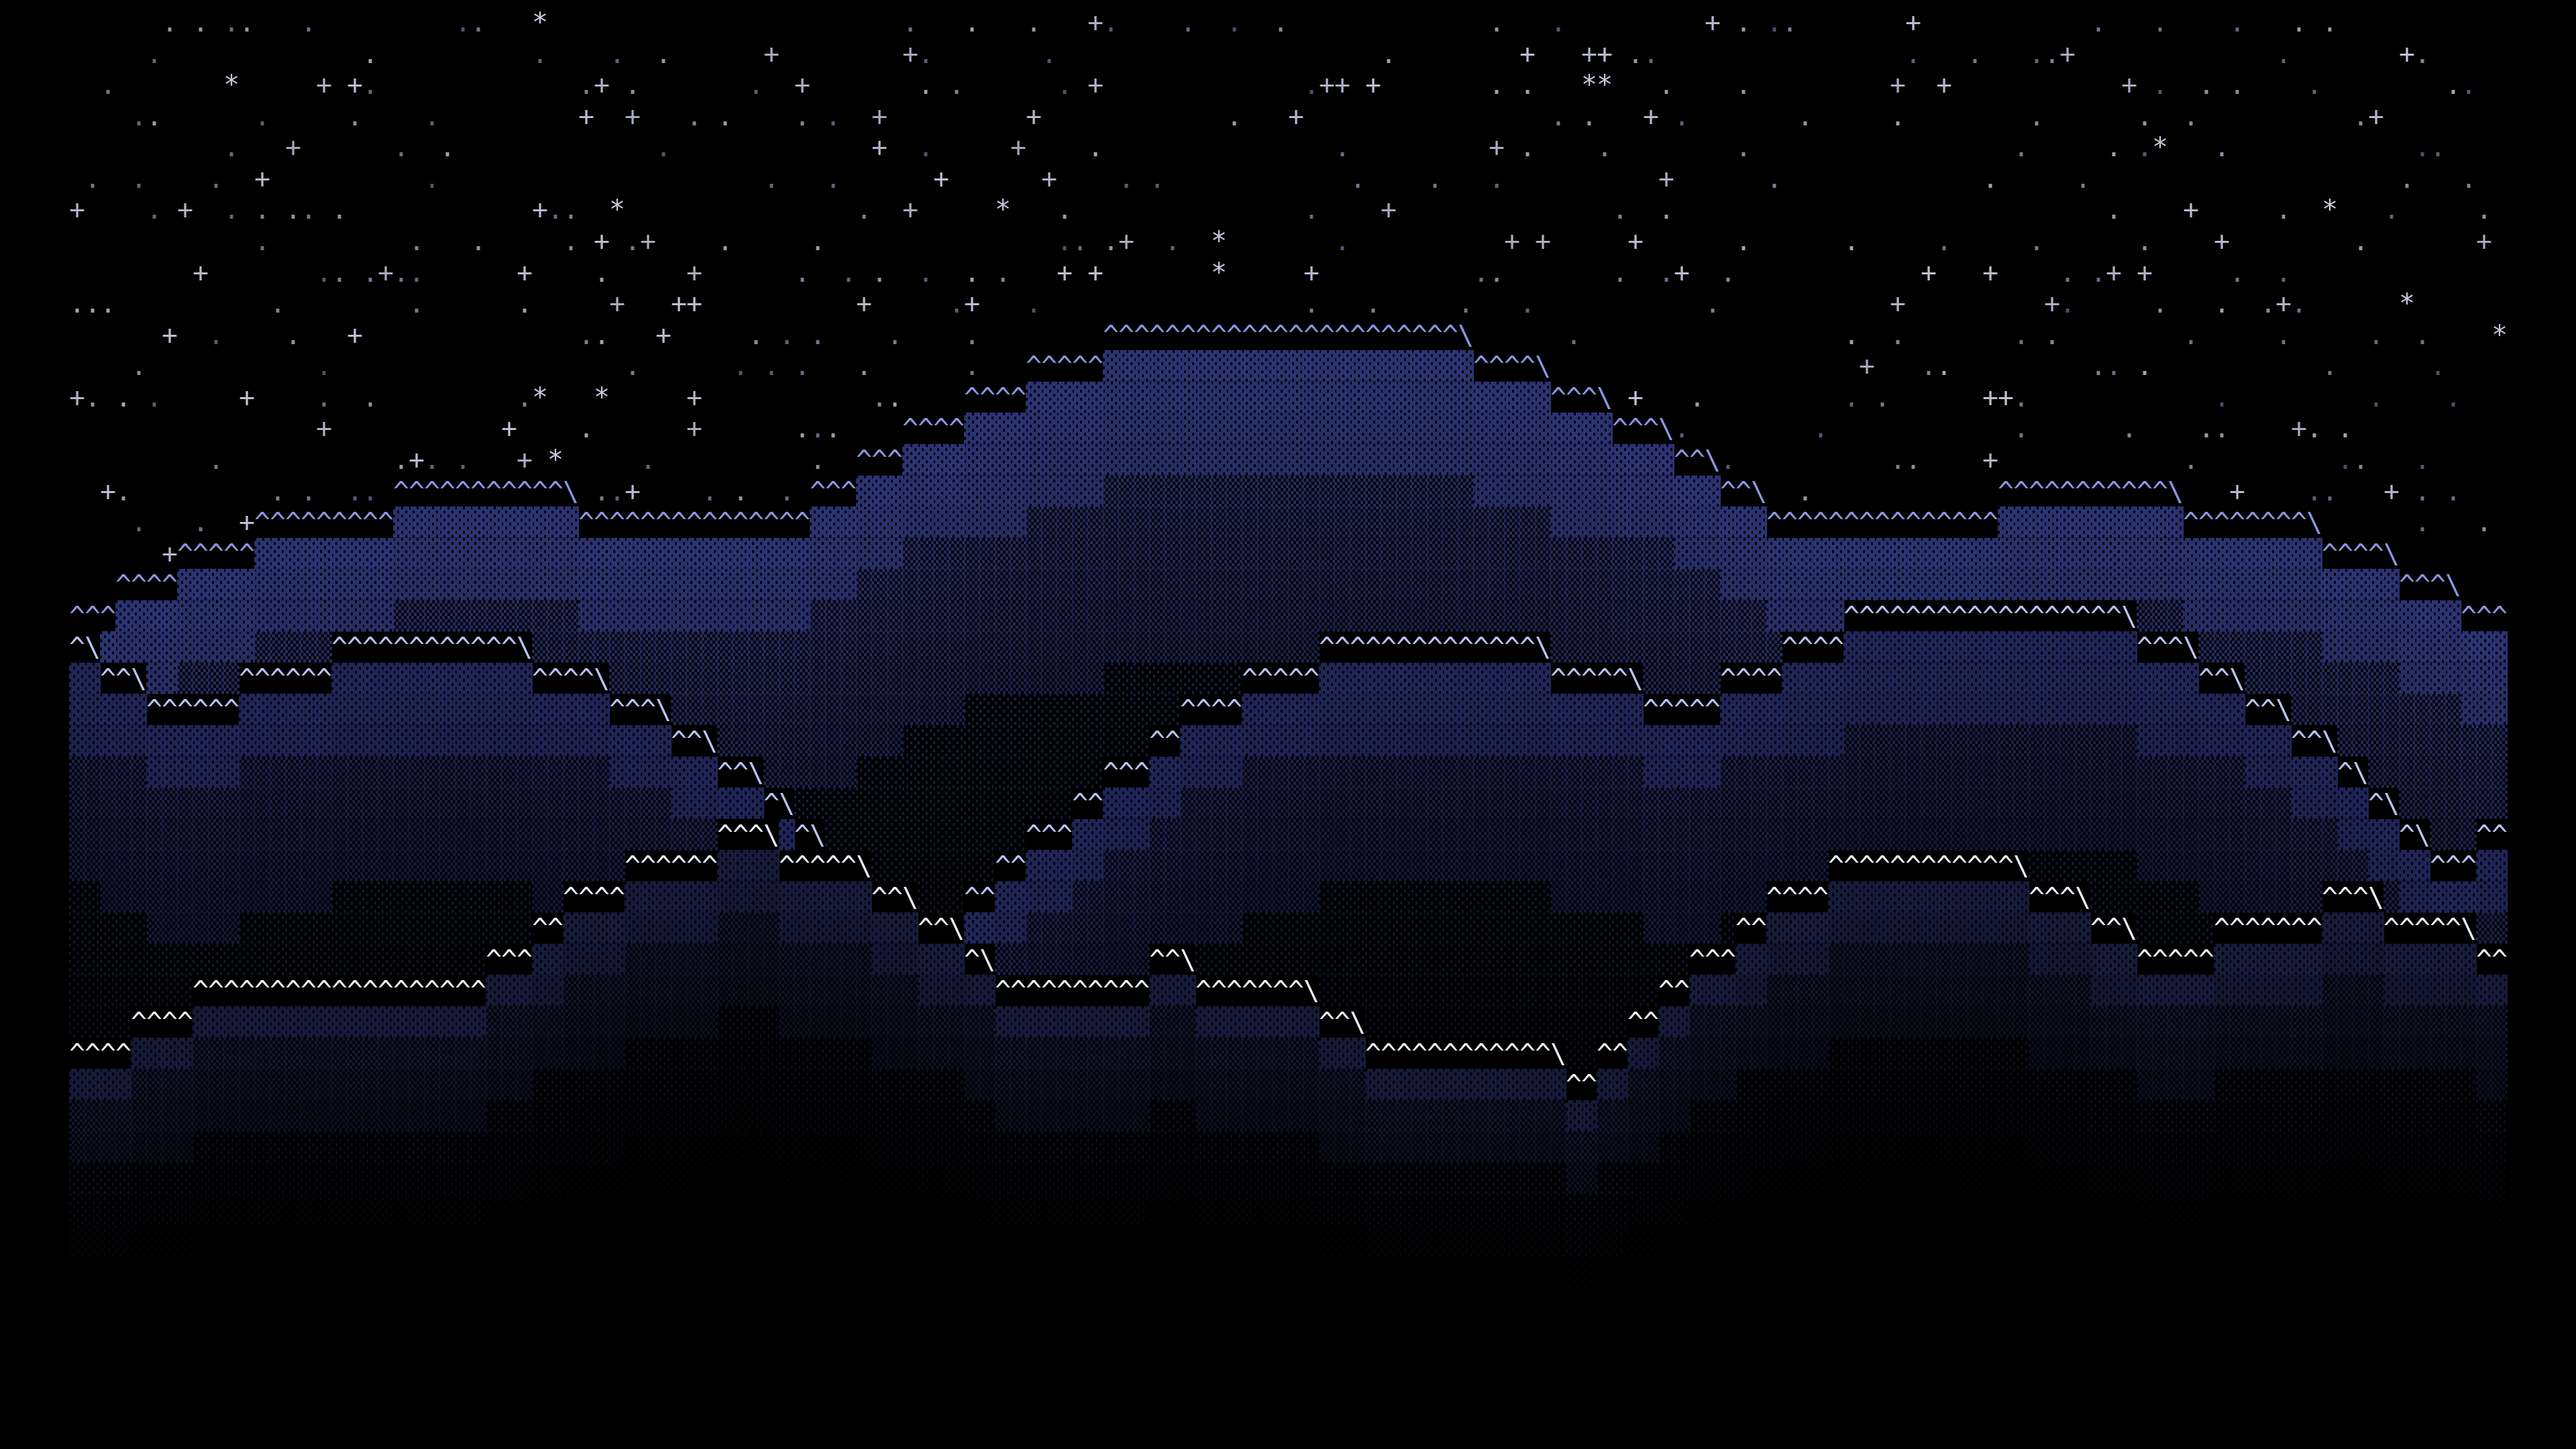
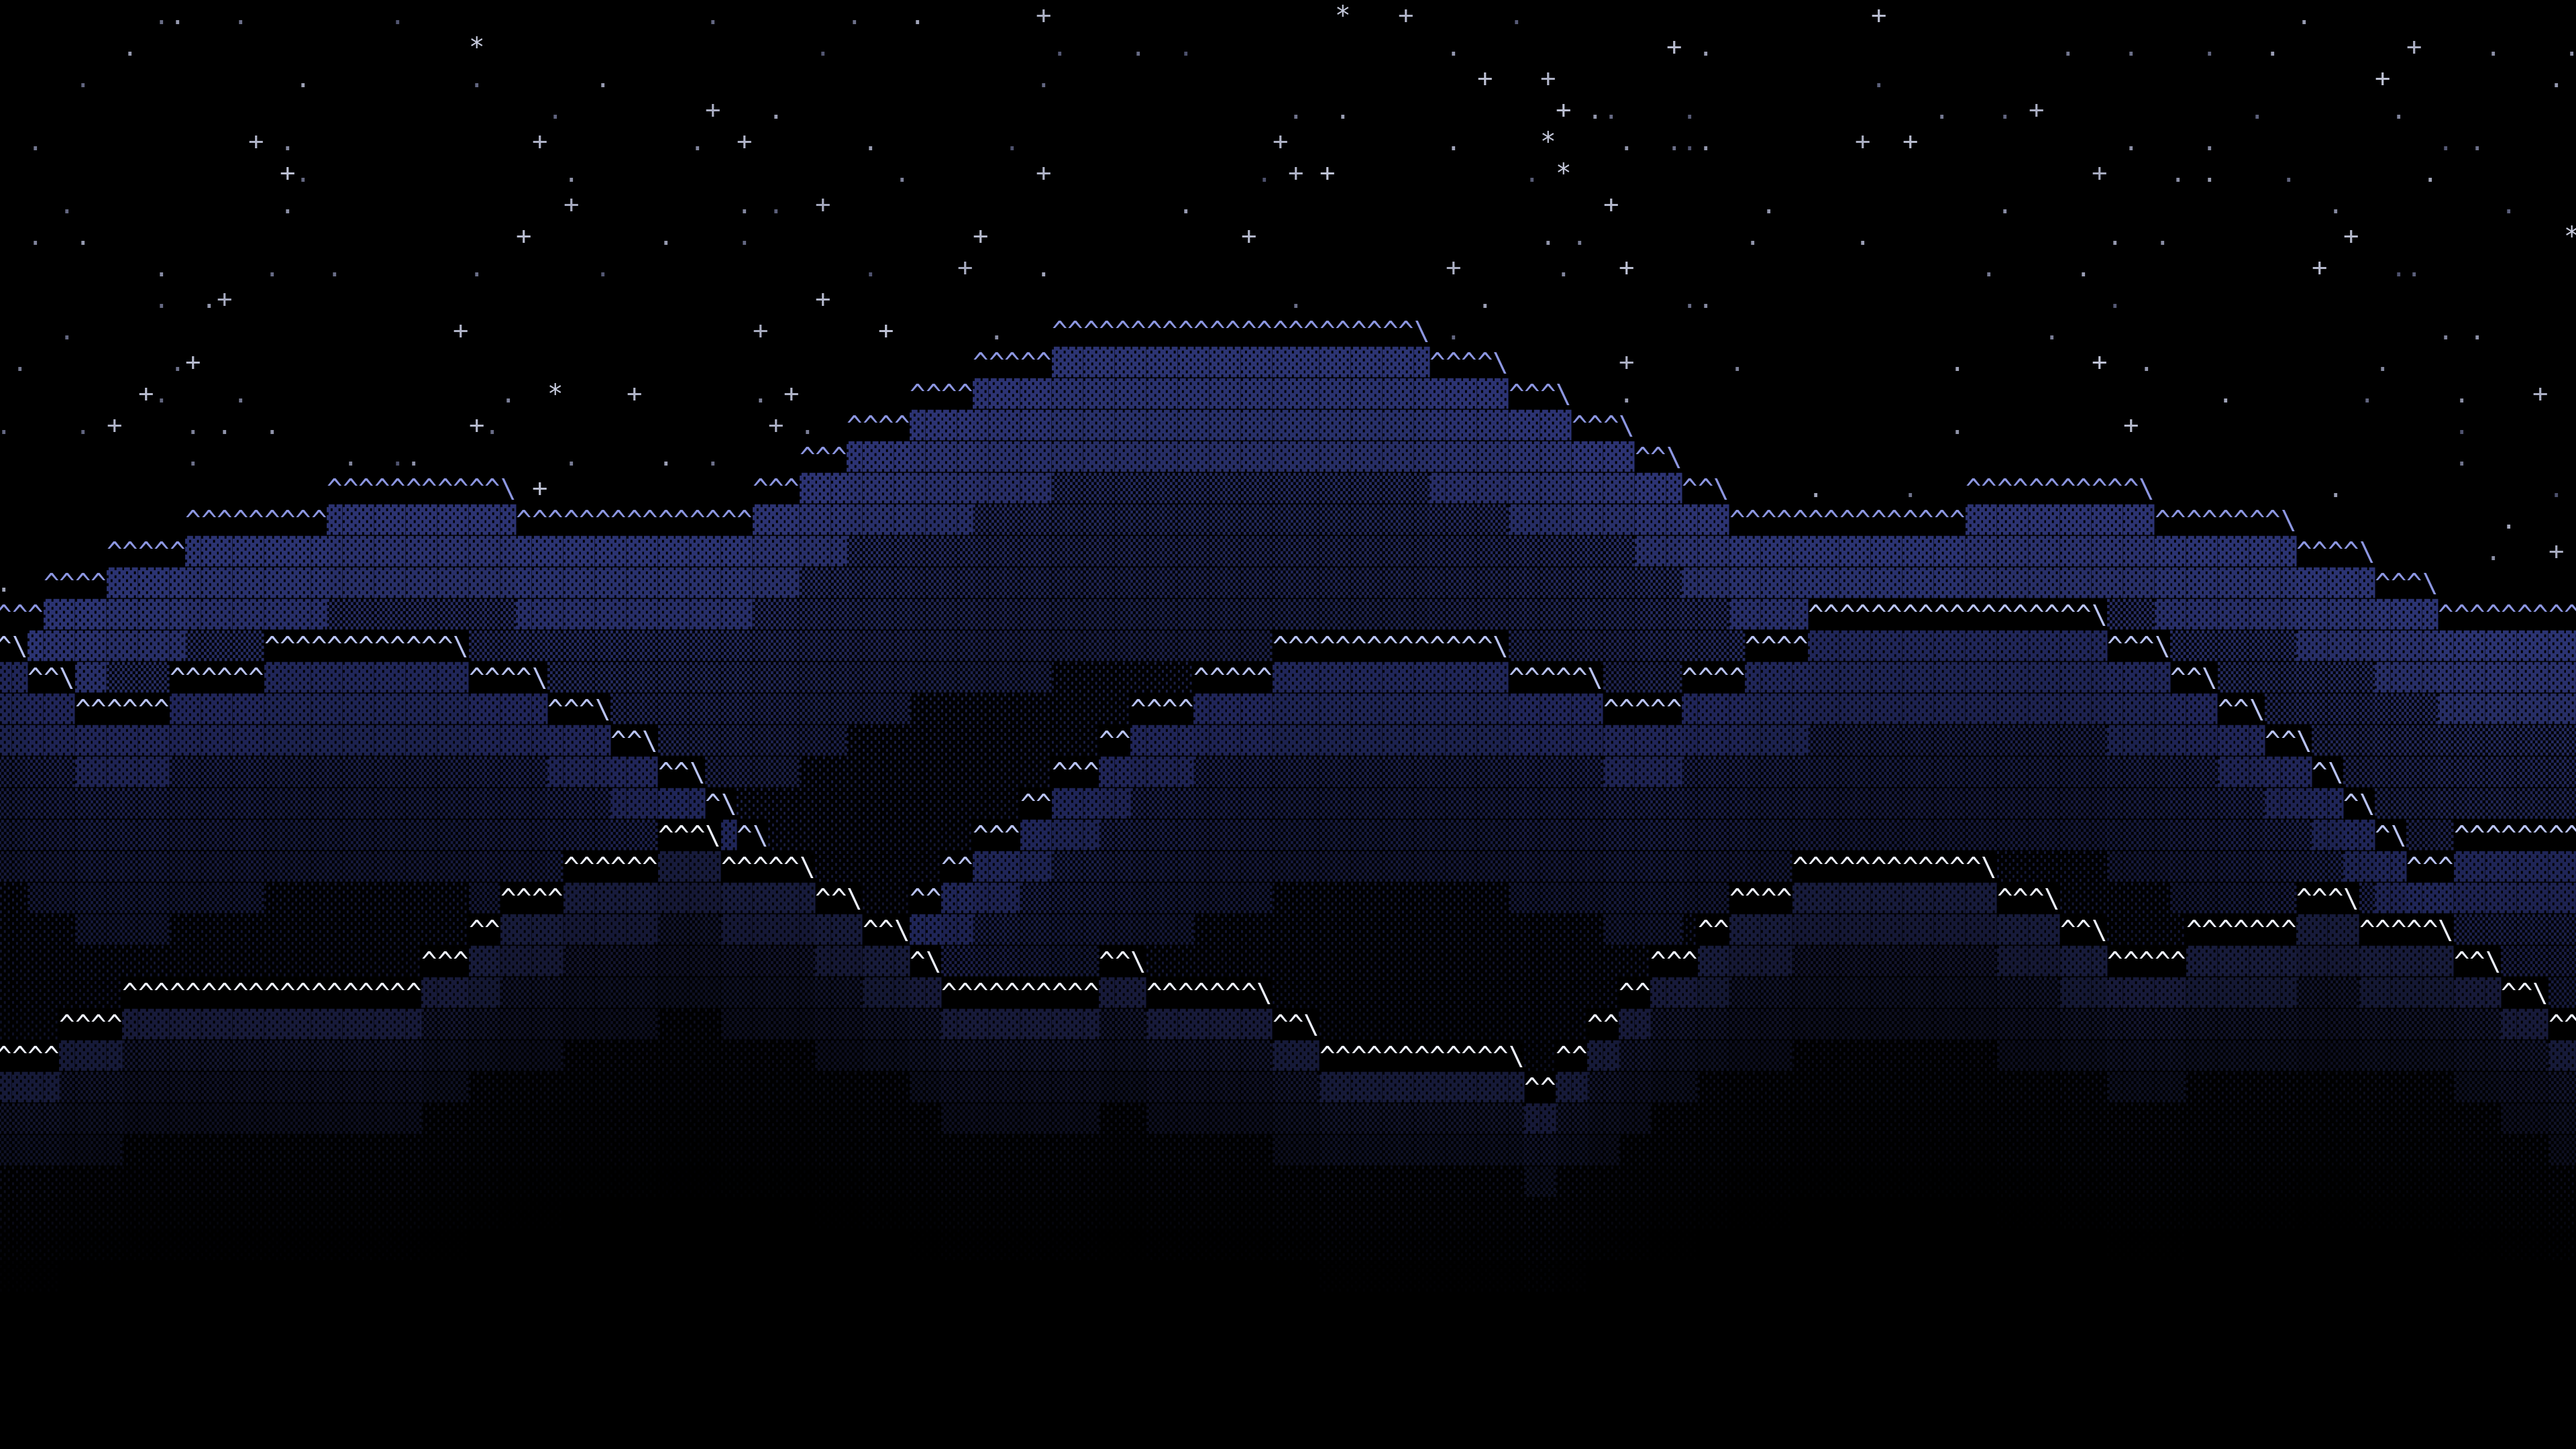
Make wallpapers fill the frame
Grids are now true 16:9 (164x46) and draw_grid converges to span the full
canvas with no side margins, and the aurora starfield covers full height.

Changed region(s): [[0.0, 0.2171, 1.0, 0.8375]]

diff --git a/tools/wallpapers.py b/tools/wallpapers.py
@@ -14,7 +14,7 @@ MID = (94, 102, 216)
 DIM = (34, 38, 70)
 
 ROWS = 46
-COLS = round(ROWS * 3.438)  # -> 16:9 once cell metrics are applied
+COLS = round(ROWS * (16 / 9) / 0.4996)  # cell aspect so the grid is true 16:9
 
 BOX = {(1, 0): "\u2500", (-1, 0): "\u2500", (0, 1): "\u2502", (0, -1): "\u2502",
        (1, 1): "\u2572", (-1, -1): "\u2572", (1, -1): "\u2571", (-1, 1): "\u2571"}
@@ -41,11 +41,16 @@ def put(g, r, c, ch, col):
 def draw_grid(grid, fname):
     cols = max(len(r) for r in grid)
     rows = len(grid)
-    size = min((W * 0.995) / (cols * 0.6021), (H * 0.995) / (rows * 1.1645))
-    font = ImageFont.truetype(FONT_PATH, max(8, int(round(size))))
-    cw = font.getlength("M") * 0.955
-    asc, desc = font.getmetrics()
-    lh = (asc + desc) * 0.97
+    size = min(W / (cols * 0.6021), H / (rows * 1.1645))
+    for _ in range(4):
+        font = ImageFont.truetype(FONT_PATH, max(8, int(round(size))))
+        cw = font.getlength("M")
+        asc, desc = font.getmetrics()
+        lh = asc + desc
+        scale = min(W / (cols * cw), H / (rows * lh))
+        if abs(scale - 1) < 0.0015:
+            break
+        size *= scale
     left = (W - cols * cw) / 2
     top = (H - rows * lh) / 2
     img = Image.new("RGB", (W, H), (0, 0, 0))
@@ -57,7 +62,7 @@ def draw_grid(grid, fname):
                 continue
             d.text((round(left + c * cw), y), ch, font=font, fill=col)
     img.save(f"{OUT}/{fname}")
-    print(f"wrote {fname}  {cols}x{rows}  size {int(round(size))}")
+    print(f"wrote {fname}  {cols}x{rows}  size {int(round(size))}  span {int(cols * cw)}x{int(rows * lh)}")
 
 
 def stars(g, n, ymax, band=None, seed=0):
@@ -78,7 +83,7 @@ def stars(g, n, ymax, band=None, seed=0):
 
 def aurora():
     g = blank()
-    stars(g, 620, int(ROWS * 0.85), seed=7)
+    stars(g, 760, ROWS, seed=7)
     for x in range(COLS):
         lobe = 0.5 + 0.5 * math.sin(x * 0.026 + 0.4)
         presence = lobe ** 1.15 * (0.55 + 0.45 * abs(math.sin(x * 0.10 + 0.8)))
@@ -100,7 +105,7 @@ def aurora():
 
 def tunturi():
     g = blank()
-    stars(g, 640, 22, seed=11)
+    stars(g, 640, ROWS, seed=11)
     for base, amp, freq, phase, top, bot, rim in [
         (24, 9.0, 0.020, 0.0, (46, 54, 120), (10, 12, 28), (140, 150, 225)),
         (30, 7.5, 0.028, 1.6, (34, 40, 94), (8, 10, 22), (185, 195, 245)),
